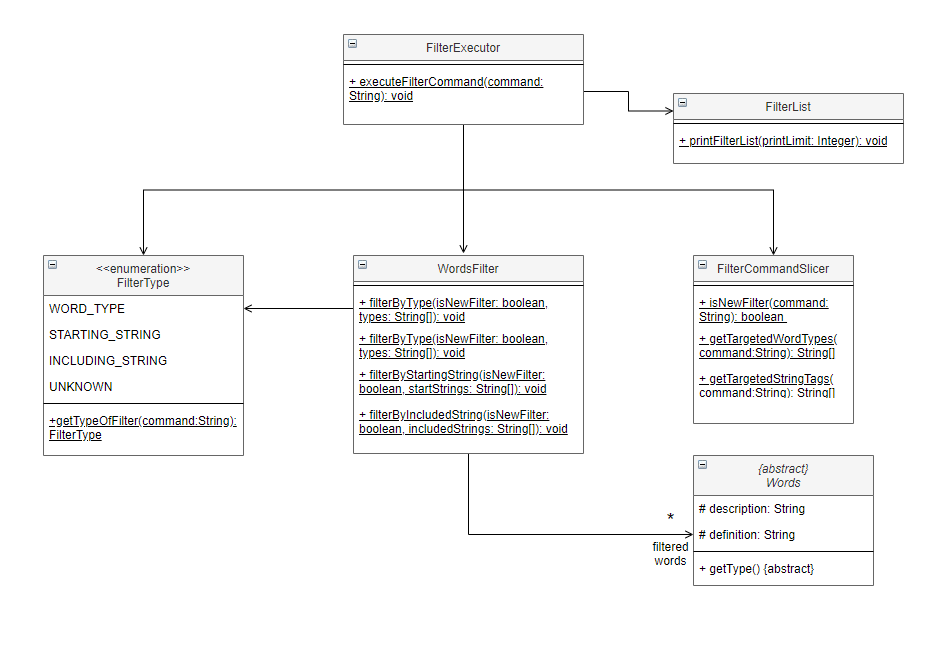
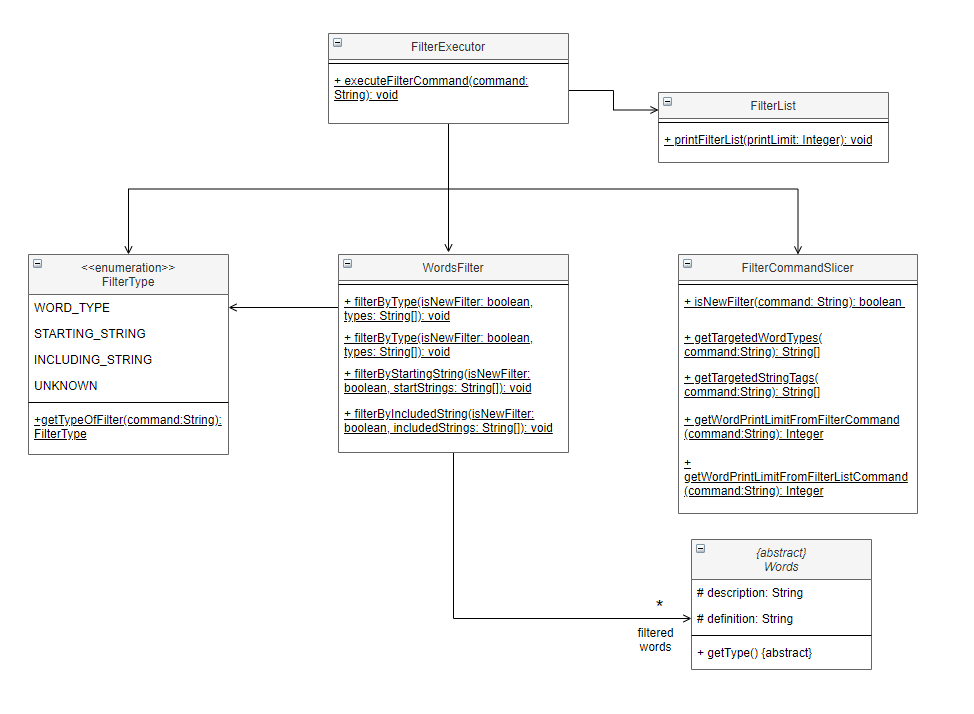
Update UserGuide.md

diff --git a/docs/DeveloperGuide.md b/docs/DeveloperGuide.md
@@ -97,13 +97,16 @@ either poem or essay at this stage)
 ![UML Filter word class diagram](graphics/diagrams/classDiagram_FilterWords.png)
 <center><i>Figure 3: Filter word UML Class Diagram</i></center>
 
-The above class diagram describes the overall architecture of the filter words functionality. FilterExecutor class has 
-the static void method executeFilterCommand that will be called first when the user enters a filter command. 
-In the executeFilterCommand method, it will make use of the enumeration FilterType to get the filter type (by WORD_TYPE, 
-STARTING STRING or INCLUDING_STRING). After that, the method will use the FilterCommandSlicer static methods isNewFilter 
+The above class diagram describes the overall architecture of the filter words functionality. `FilterExecutor` class has 
+the static void method `executeFilterCommand` that will be called first when the user enters a filter command. 
+In the `executeFilterCommand` method, it will make use of the enumeration `FilterType` to get the filter type (by `WORD_TYPE`, 
+`STARTING STRING` or `INCLUDING_STRING`). After that, the method will use the `FilterCommandSlicer` static methods `isNewFilter` 
 to determine whether the user wants to continue on the last filtered list or start a new filter on an entire word bank. 
-Subsequently, depending on the filter mode, getTargetedWordTypes or getTargetedStringTags will be called and the 
-returned array of strings will be passed to WordsFilter’s static methods filterByType, filterByStartingString and filterByIncludedString.
+`executeFilterCommand` will also check whether the user has entered a print limit using `FilterCommandSlicer`'s method 
+`getWordPrintLimitFromFilterCommand`. Subsequently, depending on the filter mode, `getTargetedWordTypes` or `getTargetedStringTags` will be called 
+and the returned array of strings will be passed to `WordsFilter`’s static methods `filterByType`, `filterByStartingString` and `filterByIncludedString`.
+Lastly, `filterCommandExecutor` will call the method `printFilterList`.
+
 The following sequence diagram shows how the components interact with each other for the scenario where the user issues 
 the command `filter -continue by\start limit\10 -cs -cg.`
 
